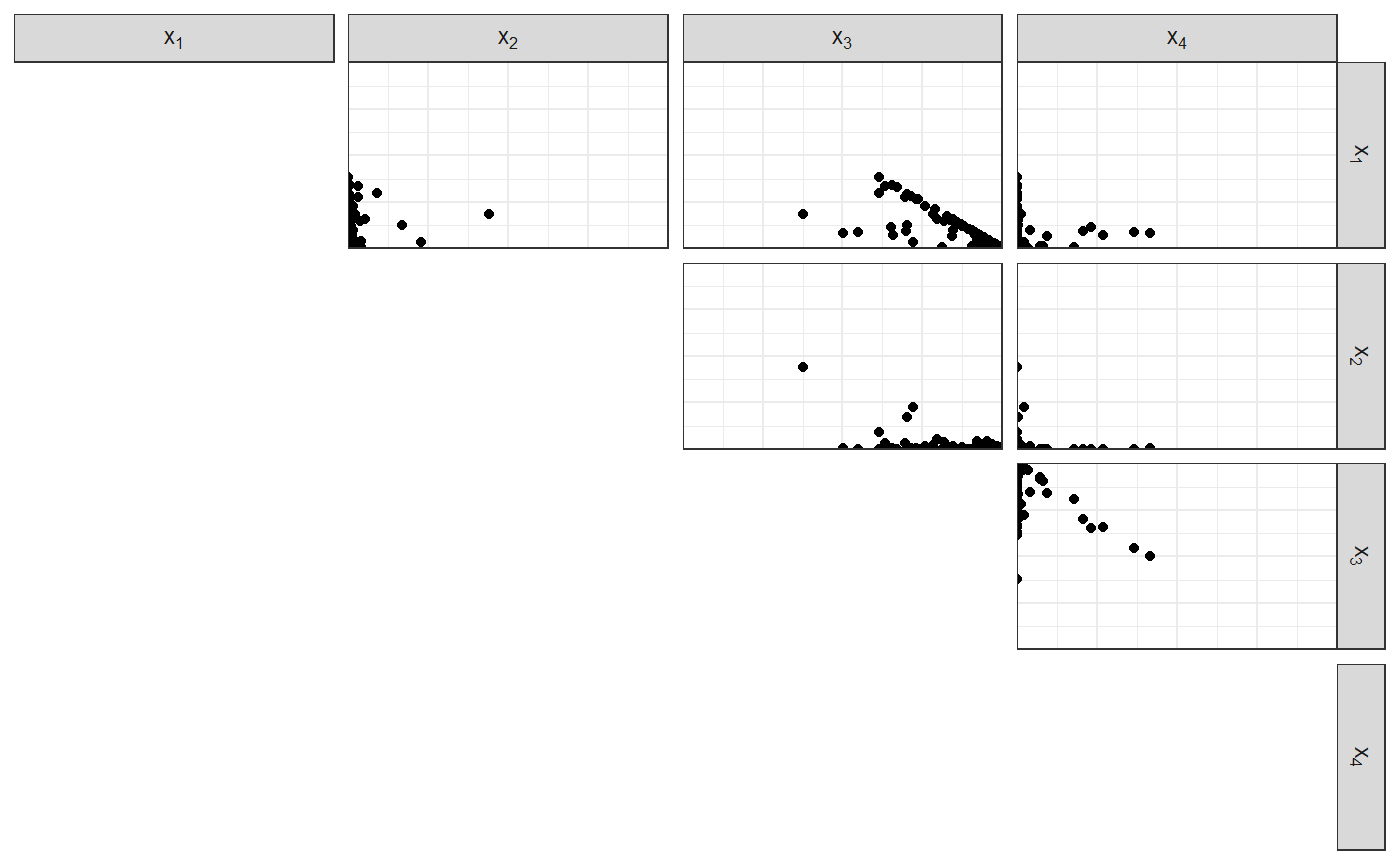
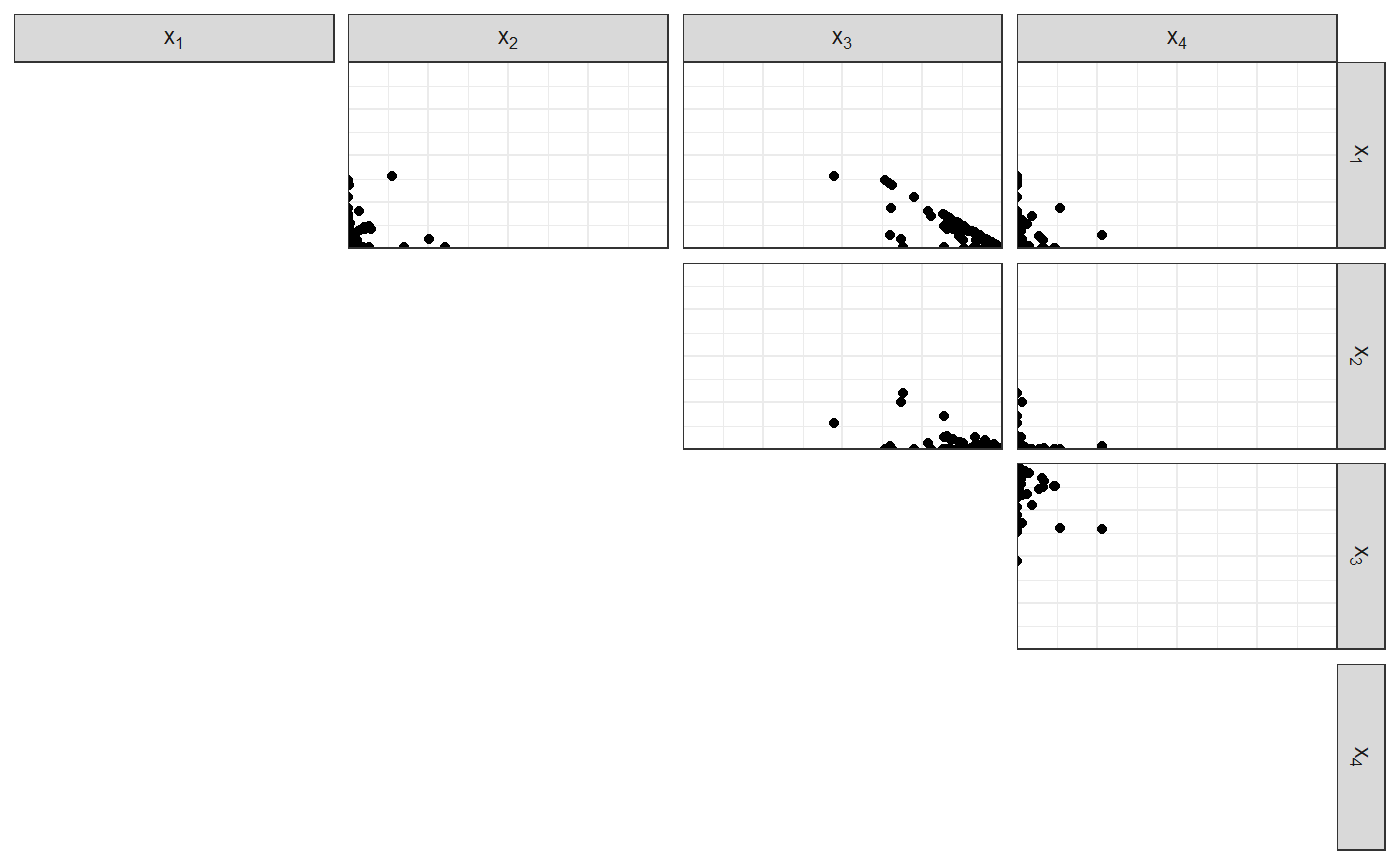
Increment version number

diff --git a/docs/articles/dirichletdirichlet-study.html b/docs/articles/dirichletdirichlet-study.html
@@ -30,7 +30,7 @@
       </button>
       <span class="navbar-brand">
         <a class="navbar-link" href="../index.html">rsamplestudy</a>
-        <span class="version label label-default" data-toggle="tooltip" data-placement="bottom" title="Released version">0.2.0</span>
+        <span class="version label label-default" data-toggle="tooltip" data-placement="bottom" title="Released version">0.2.1</span>
       </span>
     </div>
 
@@ -143,24 +143,24 @@ This vignette describes the Dirichlet-Dirichlet model.</p>
 <p>Notice that the hyperparameter is sampled, too (but it can be fixed).</p>
 <div class="sourceCode" id="cb2"><pre class="sourceCode r"><code class="sourceCode r"><a class="sourceLine" id="cb2-1" title="1"><span class="kw"><a href="https://www.rdocumentation.org/packages/utils/topics/head">head</a></span>(list_pop<span class="op">$</span>df_pop)</a>
 <a class="sourceLine" id="cb2-2" title="2"><span class="co">#&gt; # A tibble: 6 x 5</span></a>
-<a class="sourceLine" id="cb2-3" title="3"><span class="co">#&gt;   source   `x[1]`   `x[2]` `x[3]` `x[4]`</span></a>
-<a class="sourceLine" id="cb2-4" title="4"><span class="co">#&gt;    &lt;int&gt;    &lt;dbl&gt;    &lt;dbl&gt;  &lt;dbl&gt;  &lt;dbl&gt;</span></a>
-<a class="sourceLine" id="cb2-5" title="5"><span class="co">#&gt; 1      1 1.56e-11 0.101     0.899      0</span></a>
-<a class="sourceLine" id="cb2-6" title="6"><span class="co">#&gt; 2      1 1.23e- 5 0.273     0.727      0</span></a>
-<a class="sourceLine" id="cb2-7" title="7"><span class="co">#&gt; 3      1 6.34e- 7 0.0700    0.930      0</span></a>
-<a class="sourceLine" id="cb2-8" title="8"><span class="co">#&gt; 4      1 1.59e- 4 0.000150  1.000      0</span></a>
-<a class="sourceLine" id="cb2-9" title="9"><span class="co">#&gt; 5      1 8.93e- 1 0.000673  0.106      0</span></a>
-<a class="sourceLine" id="cb2-10" title="10"><span class="co">#&gt; 6      1 3.75e- 5 0.612     0.388      0</span></a>
+<a class="sourceLine" id="cb2-3" title="3"><span class="co">#&gt;   source `x[1]` `x[2]` `x[3]`   `x[4]`</span></a>
+<a class="sourceLine" id="cb2-4" title="4"><span class="co">#&gt;    &lt;int&gt;  &lt;dbl&gt;  &lt;dbl&gt;  &lt;dbl&gt;    &lt;dbl&gt;</span></a>
+<a class="sourceLine" id="cb2-5" title="5"><span class="co">#&gt; 1      1 0.102       0  0.898 1.03e-86</span></a>
+<a class="sourceLine" id="cb2-6" title="6"><span class="co">#&gt; 2      1 0.0244      0  0.976 1.73e-26</span></a>
+<a class="sourceLine" id="cb2-7" title="7"><span class="co">#&gt; 3      1 0.897       0  0.103 1.05e-18</span></a>
+<a class="sourceLine" id="cb2-8" title="8"><span class="co">#&gt; 4      1 0.421       0  0.579 1.14e-50</span></a>
+<a class="sourceLine" id="cb2-9" title="9"><span class="co">#&gt; 5      1 0.899       0  0.101 1.79e-21</span></a>
+<a class="sourceLine" id="cb2-10" title="10"><span class="co">#&gt; 6      1 0.440       0  0.560 7.73e-20</span></a>
 <a class="sourceLine" id="cb2-11" title="11"><span class="kw"><a href="https://www.rdocumentation.org/packages/utils/topics/head">head</a></span>(list_pop<span class="op">$</span>df_sources)</a>
 <a class="sourceLine" id="cb2-12" title="12"><span class="co">#&gt; # A tibble: 6 x 5</span></a>
 <a class="sourceLine" id="cb2-13" title="13"><span class="co">#&gt;   source `theta[1]` `theta[2]` `theta[3]`  `theta[4]`</span></a>
 <a class="sourceLine" id="cb2-14" title="14"><span class="co">#&gt;    &lt;int&gt;      &lt;dbl&gt;      &lt;dbl&gt;      &lt;dbl&gt;       &lt;dbl&gt;</span></a>
-<a class="sourceLine" id="cb2-15" title="15"><span class="co">#&gt; 1      1  0.0945       0.213      0.693   0.000165   </span></a>
-<a class="sourceLine" id="cb2-16" title="16"><span class="co">#&gt; 2      2  0.0242       0.00908    0.967   0.000000843</span></a>
-<a class="sourceLine" id="cb2-17" title="17"><span class="co">#&gt; 3      3  0.0000997    0.595      0.386   0.0188     </span></a>
-<a class="sourceLine" id="cb2-18" title="18"><span class="co">#&gt; 4      4  0.00448      0.172      0.824   0.00000151 </span></a>
-<a class="sourceLine" id="cb2-19" title="19"><span class="co">#&gt; 5      5  0.00946      0.988      0.00260 0.00000246 </span></a>
-<a class="sourceLine" id="cb2-20" title="20"><span class="co">#&gt; 6      6  0.0716       0.0278     0.877   0.0232</span></a></code></pre></div>
+<a class="sourceLine" id="cb2-15" title="15"><span class="co">#&gt; 1      1  0.621       7.74e-11      0.367 0.0116     </span></a>
+<a class="sourceLine" id="cb2-16" title="16"><span class="co">#&gt; 2      2  0.0174      3.40e- 6      0.981 0.00118    </span></a>
+<a class="sourceLine" id="cb2-17" title="17"><span class="co">#&gt; 3      3  0.0000446   4.40e-12      1.000 0.000000687</span></a>
+<a class="sourceLine" id="cb2-18" title="18"><span class="co">#&gt; 4      4  0.158       1.36e-16      0.842 0.00000278 </span></a>
+<a class="sourceLine" id="cb2-19" title="19"><span class="co">#&gt; 5      5  0.326       5.15e- 1      0.158 0.000863   </span></a>
+<a class="sourceLine" id="cb2-20" title="20"><span class="co">#&gt; 6      6  0.266       2.38e- 5      0.522 0.212</span></a></code></pre></div>
 </div>
 <div id="hyperparameters" class="section level2">
 <h2 class="hasAnchor">
@@ -187,33 +187,33 @@ This is generically done using <code>make_dataset_splits</code>:</p>
 <a class="sourceLine" id="cb4-8" title="8"><span class="co">#&gt; [5] "df_questioned"  "df_background"</span></a></code></pre></div>
 <div class="sourceCode" id="cb5"><pre class="sourceCode r"><code class="sourceCode r"><a class="sourceLine" id="cb5-1" title="1"><span class="kw"><a href="https://www.rdocumentation.org/packages/utils/topics/head">head</a></span>(list_samples<span class="op">$</span>df_reference)</a>
 <a class="sourceLine" id="cb5-2" title="2"><span class="co">#&gt; # A tibble: 6 x 5</span></a>
-<a class="sourceLine" id="cb5-3" title="3"><span class="co">#&gt;   source  `x[1]`    `x[2]` `x[3]`    `x[4]`</span></a>
-<a class="sourceLine" id="cb5-4" title="4"><span class="co">#&gt;    &lt;int&gt;   &lt;dbl&gt;     &lt;dbl&gt;  &lt;dbl&gt;     &lt;dbl&gt;</span></a>
-<a class="sourceLine" id="cb5-5" title="5"><span class="co">#&gt; 1     13 0.149   9.13e-  5  0.825 0.0263   </span></a>
-<a class="sourceLine" id="cb5-6" title="6"><span class="co">#&gt; 2     13 0.360   4.50e-201  0.585 0.0542   </span></a>
-<a class="sourceLine" id="cb5-7" title="7"><span class="co">#&gt; 3     13 0.271   6.14e- 11  0.729 0.000356 </span></a>
-<a class="sourceLine" id="cb5-8" title="8"><span class="co">#&gt; 4     13 0.00334 3.55e- 79  0.652 0.345    </span></a>
-<a class="sourceLine" id="cb5-9" title="9"><span class="co">#&gt; 5     13 0.263   7.32e-141  0.732 0.00489  </span></a>
-<a class="sourceLine" id="cb5-10" title="10"><span class="co">#&gt; 6     13 0.116   5.35e- 41  0.884 0.0000553</span></a>
+<a class="sourceLine" id="cb5-3" title="3"><span class="co">#&gt;   source    `x[1]` `x[2]` `x[3]` `x[4]`</span></a>
+<a class="sourceLine" id="cb5-4" title="4"><span class="co">#&gt;    &lt;int&gt;     &lt;dbl&gt;  &lt;dbl&gt;  &lt;dbl&gt;  &lt;dbl&gt;</span></a>
+<a class="sourceLine" id="cb5-5" title="5"><span class="co">#&gt; 1     12 3.09e-140      0      1      0</span></a>
+<a class="sourceLine" id="cb5-6" title="6"><span class="co">#&gt; 2     12 1.19e- 17      0      1      0</span></a>
+<a class="sourceLine" id="cb5-7" title="7"><span class="co">#&gt; 3     12 8.48e- 17      0      1      0</span></a>
+<a class="sourceLine" id="cb5-8" title="8"><span class="co">#&gt; 4     12 1.06e- 21      0      1      0</span></a>
+<a class="sourceLine" id="cb5-9" title="9"><span class="co">#&gt; 5     12 1.17e-114      0      1      0</span></a>
+<a class="sourceLine" id="cb5-10" title="10"><span class="co">#&gt; 6     12 2.56e- 77      0      1      0</span></a>
 <a class="sourceLine" id="cb5-11" title="11"><span class="kw"><a href="https://www.rdocumentation.org/packages/utils/topics/head">head</a></span>(list_samples<span class="op">$</span>df_questioned)</a>
 <a class="sourceLine" id="cb5-12" title="12"><span class="co">#&gt; # A tibble: 5 x 5</span></a>
-<a class="sourceLine" id="cb5-13" title="13"><span class="co">#&gt;   source   `x[1]`    `x[2]`    `x[3]` `x[4]`</span></a>
-<a class="sourceLine" id="cb5-14" title="14"><span class="co">#&gt;    &lt;int&gt;    &lt;dbl&gt;     &lt;dbl&gt;     &lt;dbl&gt;  &lt;dbl&gt;</span></a>
-<a class="sourceLine" id="cb5-15" title="15"><span class="co">#&gt; 1      4 1.13e-74  4.13e- 6 10.00e- 1  0    </span></a>
-<a class="sourceLine" id="cb5-16" title="16"><span class="co">#&gt; 2      5 5.10e- 8 10.00e- 1  2.52e-38  0    </span></a>
-<a class="sourceLine" id="cb5-17" title="17"><span class="co">#&gt; 3     14 1.02e- 6  3.37e- 2  9.66e- 1  0    </span></a>
-<a class="sourceLine" id="cb5-18" title="18"><span class="co">#&gt; 4     15 0.        3.22e-71  8.07e- 1  0.193</span></a>
-<a class="sourceLine" id="cb5-19" title="19"><span class="co">#&gt; 5     19 9.99e- 1  9.49e-44  8.86e- 4  0</span></a>
+<a class="sourceLine" id="cb5-13" title="13"><span class="co">#&gt;   source    `x[1]` `x[2]` `x[3]`    `x[4]`</span></a>
+<a class="sourceLine" id="cb5-14" title="14"><span class="co">#&gt;    &lt;int&gt;     &lt;dbl&gt;  &lt;dbl&gt;  &lt;dbl&gt;     &lt;dbl&gt;</span></a>
+<a class="sourceLine" id="cb5-15" title="15"><span class="co">#&gt; 1      7 0.0000533      0  0.663 3.37e-  1</span></a>
+<a class="sourceLine" id="cb5-16" title="16"><span class="co">#&gt; 2      7 0.0132         0  0.948 3.93e-  2</span></a>
+<a class="sourceLine" id="cb5-17" title="17"><span class="co">#&gt; 3      7 0.00809        0  0.545 4.47e-  1</span></a>
+<a class="sourceLine" id="cb5-18" title="18"><span class="co">#&gt; 4     14 0              0  0.991 9.36e-  3</span></a>
+<a class="sourceLine" id="cb5-19" title="19"><span class="co">#&gt; 5     19 0              0  1     3.45e-306</span></a>
 <a class="sourceLine" id="cb5-20" title="20"><span class="kw"><a href="https://www.rdocumentation.org/packages/utils/topics/head">head</a></span>(list_samples<span class="op">$</span>df_background)</a>
 <a class="sourceLine" id="cb5-21" title="21"><span class="co">#&gt; # A tibble: 6 x 5</span></a>
-<a class="sourceLine" id="cb5-22" title="22"><span class="co">#&gt;   source   `x[1]`   `x[2]` `x[3]` `x[4]`</span></a>
-<a class="sourceLine" id="cb5-23" title="23"><span class="co">#&gt;    &lt;int&gt;    &lt;dbl&gt;    &lt;dbl&gt;  &lt;dbl&gt;  &lt;dbl&gt;</span></a>
-<a class="sourceLine" id="cb5-24" title="24"><span class="co">#&gt; 1      1 1.56e-11 0.101     0.899      0</span></a>
-<a class="sourceLine" id="cb5-25" title="25"><span class="co">#&gt; 2      1 1.23e- 5 0.273     0.727      0</span></a>
-<a class="sourceLine" id="cb5-26" title="26"><span class="co">#&gt; 3      1 6.34e- 7 0.0700    0.930      0</span></a>
-<a class="sourceLine" id="cb5-27" title="27"><span class="co">#&gt; 4      1 1.59e- 4 0.000150  1.000      0</span></a>
-<a class="sourceLine" id="cb5-28" title="28"><span class="co">#&gt; 5      1 8.93e- 1 0.000673  0.106      0</span></a>
-<a class="sourceLine" id="cb5-29" title="29"><span class="co">#&gt; 6      1 3.75e- 5 0.612     0.388      0</span></a></code></pre></div>
+<a class="sourceLine" id="cb5-22" title="22"><span class="co">#&gt;   source `x[1]` `x[2]` `x[3]`   `x[4]`</span></a>
+<a class="sourceLine" id="cb5-23" title="23"><span class="co">#&gt;    &lt;int&gt;  &lt;dbl&gt;  &lt;dbl&gt;  &lt;dbl&gt;    &lt;dbl&gt;</span></a>
+<a class="sourceLine" id="cb5-24" title="24"><span class="co">#&gt; 1      1 0.102       0  0.898 1.03e-86</span></a>
+<a class="sourceLine" id="cb5-25" title="25"><span class="co">#&gt; 2      1 0.0244      0  0.976 1.73e-26</span></a>
+<a class="sourceLine" id="cb5-26" title="26"><span class="co">#&gt; 3      1 0.897       0  0.103 1.05e-18</span></a>
+<a class="sourceLine" id="cb5-27" title="27"><span class="co">#&gt; 4      1 0.421       0  0.579 1.14e-50</span></a>
+<a class="sourceLine" id="cb5-28" title="28"><span class="co">#&gt; 5      1 0.899       0  0.101 1.79e-21</span></a>
+<a class="sourceLine" id="cb5-29" title="29"><span class="co">#&gt; 6      1 0.440       0  0.560 7.73e-20</span></a></code></pre></div>
 <div id="source-parameters" class="section level3">
 <h3 class="hasAnchor">
 <a href="#source-parameters" class="anchor"></a>Source parameters</h3>

diff --git a/docs/articles/dirichlet-distribution.html b/docs/articles/dirichlet-distribution.html
@@ -30,7 +30,7 @@
       </button>
       <span class="navbar-brand">
         <a class="navbar-link" href="../index.html">rsamplestudy</a>
-        <span class="version label label-default" data-toggle="tooltip" data-placement="bottom" title="Released version">0.2.0</span>
+        <span class="version label label-default" data-toggle="tooltip" data-placement="bottom" title="Released version">0.2.1</span>
       </span>
     </div>
 
@@ -151,14 +151,14 @@ In other words, <span class="math inline">\(\boldsymbol{X} \in \text{Simplex}{(p
 <div class="sourceCode" id="cb2"><pre class="sourceCode r"><code class="sourceCode r"><a class="sourceLine" id="cb2-1" title="1">df_diri &lt;-<span class="st"> </span><span class="kw"><a href="../reference/fun_rdirichlet.html">fun_rdirichlet</a></span>(n, alpha)</a>
 <a class="sourceLine" id="cb2-2" title="2"><span class="kw"><a href="https://www.rdocumentation.org/packages/utils/topics/head">head</a></span>(df_diri)</a>
 <a class="sourceLine" id="cb2-3" title="3"><span class="co">#&gt; # A tibble: 6 x 4</span></a>
-<a class="sourceLine" id="cb2-4" title="4"><span class="co">#&gt;     `x[1]`   `x[2]` `x[3]`   `x[4]`</span></a>
-<a class="sourceLine" id="cb2-5" title="5"><span class="co">#&gt;      &lt;dbl&gt;    &lt;dbl&gt;  &lt;dbl&gt;    &lt;dbl&gt;</span></a>
-<a class="sourceLine" id="cb2-6" title="6"><span class="co">#&gt; 1 0.117    7.54e-14  0.652 2.31e- 1</span></a>
-<a class="sourceLine" id="cb2-7" title="7"><span class="co">#&gt; 2 0.00419  7.90e- 4  0.995 1.99e-23</span></a>
-<a class="sourceLine" id="cb2-8" title="8"><span class="co">#&gt; 3 0.000347 4.85e- 8  0.975 2.42e- 2</span></a>
-<a class="sourceLine" id="cb2-9" title="9"><span class="co">#&gt; 4 0.00716  4.98e-10  0.993 2.23e- 7</span></a>
-<a class="sourceLine" id="cb2-10" title="10"><span class="co">#&gt; 5 0.0800   3.57e- 3  0.501 4.15e- 1</span></a>
-<a class="sourceLine" id="cb2-11" title="11"><span class="co">#&gt; 6 0.185    1.94e- 2  0.783 1.29e- 2</span></a></code></pre></div>
+<a class="sourceLine" id="cb2-4" title="4"><span class="co">#&gt;    `x[1]`   `x[2]` `x[3]`   `x[4]`</span></a>
+<a class="sourceLine" id="cb2-5" title="5"><span class="co">#&gt;     &lt;dbl&gt;    &lt;dbl&gt;  &lt;dbl&gt;    &lt;dbl&gt;</span></a>
+<a class="sourceLine" id="cb2-6" title="6"><span class="co">#&gt; 1 0.00885 1.03e-18  0.991 4.91e- 4</span></a>
+<a class="sourceLine" id="cb2-7" title="7"><span class="co">#&gt; 2 0.0109  2.24e- 2  0.967 3.43e-11</span></a>
+<a class="sourceLine" id="cb2-8" title="8"><span class="co">#&gt; 3 0.0679  4.11e-13  0.932 1.92e- 4</span></a>
+<a class="sourceLine" id="cb2-9" title="9"><span class="co">#&gt; 4 0.169   5.97e-17  0.831 1.07e- 8</span></a>
+<a class="sourceLine" id="cb2-10" title="10"><span class="co">#&gt; 5 0.0918  5.13e- 5  0.906 2.54e- 3</span></a>
+<a class="sourceLine" id="cb2-11" title="11"><span class="co">#&gt; 6 0.0167  5.15e- 4  0.983 3.78e- 7</span></a></code></pre></div>
 <pre><code>#&gt; Loading required namespace: GGally</code></pre>
 <p><img src="dirichlet-distribution_files/figure-html/sym-sens-plot-comp-1.png" width="700"></p>
 <div id="uniform-sampling" class="section level3">
@@ -174,12 +174,12 @@ In other words, <span class="math inline">\(\boldsymbol{X} \in \text{Simplex}{(p
 <a class="sourceLine" id="cb5-3" title="3"><span class="co">#&gt; # A tibble: 6 x 4</span></a>
 <a class="sourceLine" id="cb5-4" title="4"><span class="co">#&gt;   `x[1]` `x[2]` `x[3]` `x[4]`</span></a>
 <a class="sourceLine" id="cb5-5" title="5"><span class="co">#&gt;    &lt;dbl&gt;  &lt;dbl&gt;  &lt;dbl&gt;  &lt;dbl&gt;</span></a>
-<a class="sourceLine" id="cb5-6" title="6"><span class="co">#&gt; 1 0.0737 0.110   0.525 0.291 </span></a>
-<a class="sourceLine" id="cb5-7" title="7"><span class="co">#&gt; 2 0.289  0.122   0.438 0.151 </span></a>
-<a class="sourceLine" id="cb5-8" title="8"><span class="co">#&gt; 3 0.251  0.305   0.252 0.192 </span></a>
-<a class="sourceLine" id="cb5-9" title="9"><span class="co">#&gt; 4 0.113  0.220   0.612 0.0548</span></a>
-<a class="sourceLine" id="cb5-10" title="10"><span class="co">#&gt; 5 0.614  0.0461  0.320 0.0195</span></a>
-<a class="sourceLine" id="cb5-11" title="11"><span class="co">#&gt; 6 0.403  0.104   0.444 0.0494</span></a></code></pre></div>
+<a class="sourceLine" id="cb5-6" title="6"><span class="co">#&gt; 1 0.476  0.140   0.210 0.173 </span></a>
+<a class="sourceLine" id="cb5-7" title="7"><span class="co">#&gt; 2 0.0145 0.415   0.352 0.218 </span></a>
+<a class="sourceLine" id="cb5-8" title="8"><span class="co">#&gt; 3 0.264  0.228   0.431 0.0773</span></a>
+<a class="sourceLine" id="cb5-9" title="9"><span class="co">#&gt; 4 0.162  0.241   0.554 0.0422</span></a>
+<a class="sourceLine" id="cb5-10" title="10"><span class="co">#&gt; 5 0.366  0.113   0.321 0.200 </span></a>
+<a class="sourceLine" id="cb5-11" title="11"><span class="co">#&gt; 6 0.420  0.0159  0.328 0.236</span></a></code></pre></div>
 <div class="sourceCode" id="cb6"><pre class="sourceCode r"><code class="sourceCode r"><a class="sourceLine" id="cb6-1" title="1"><span class="kw">scatter_matrix_simplex</span>(df_diri)</a></code></pre></div>
 <p><img src="dirichlet-distribution_files/figure-html/unnamed-chunk-5-1.png" width="700"></p>
 </div>
@@ -196,12 +196,12 @@ In other words, <span class="math inline">\(\boldsymbol{X} \in \text{Simplex}{(p
 <a class="sourceLine" id="cb8-3" title="3"><span class="co">#&gt; # A tibble: 6 x 4</span></a>
 <a class="sourceLine" id="cb8-4" title="4"><span class="co">#&gt;   `x[1]` `x[2]` `x[3]` `x[4]`</span></a>
 <a class="sourceLine" id="cb8-5" title="5"><span class="co">#&gt;    &lt;dbl&gt;  &lt;dbl&gt;  &lt;dbl&gt;  &lt;dbl&gt;</span></a>
-<a class="sourceLine" id="cb8-6" title="6"><span class="co">#&gt; 1  0.319  0.244  0.205  0.232</span></a>
-<a class="sourceLine" id="cb8-7" title="7"><span class="co">#&gt; 2  0.251  0.238  0.258  0.253</span></a>
-<a class="sourceLine" id="cb8-8" title="8"><span class="co">#&gt; 3  0.256  0.263  0.234  0.247</span></a>
-<a class="sourceLine" id="cb8-9" title="9"><span class="co">#&gt; 4  0.195  0.305  0.235  0.264</span></a>
-<a class="sourceLine" id="cb8-10" title="10"><span class="co">#&gt; 5  0.194  0.302  0.271  0.234</span></a>
-<a class="sourceLine" id="cb8-11" title="11"><span class="co">#&gt; 6  0.240  0.264  0.229  0.267</span></a></code></pre></div>
+<a class="sourceLine" id="cb8-6" title="6"><span class="co">#&gt; 1  0.261  0.242  0.249  0.248</span></a>
+<a class="sourceLine" id="cb8-7" title="7"><span class="co">#&gt; 2  0.277  0.227  0.225  0.271</span></a>
+<a class="sourceLine" id="cb8-8" title="8"><span class="co">#&gt; 3  0.261  0.182  0.317  0.239</span></a>
+<a class="sourceLine" id="cb8-9" title="9"><span class="co">#&gt; 4  0.210  0.230  0.334  0.226</span></a>
+<a class="sourceLine" id="cb8-10" title="10"><span class="co">#&gt; 5  0.258  0.252  0.250  0.240</span></a>
+<a class="sourceLine" id="cb8-11" title="11"><span class="co">#&gt; 6  0.200  0.261  0.319  0.219</span></a></code></pre></div>
 <div class="sourceCode" id="cb9"><pre class="sourceCode r"><code class="sourceCode r"><a class="sourceLine" id="cb9-1" title="1"><span class="kw">scatter_matrix_simplex</span>(df_diri)</a></code></pre></div>
 <p><img src="dirichlet-distribution_files/figure-html/unnamed-chunk-8-1.png" width="700"></p>
 </div>
@@ -216,26 +216,15 @@ In other words, <span class="math inline">\(\boldsymbol{X} \in \text{Simplex}{(p
 <div class="sourceCode" id="cb11"><pre class="sourceCode r"><code class="sourceCode r"><a class="sourceLine" id="cb11-1" title="1">df_diri &lt;-<span class="st"> </span><span class="kw"><a href="../reference/fun_rdirichlet.html">fun_rdirichlet</a></span>(n, alpha)</a>
 <a class="sourceLine" id="cb11-2" title="2"><span class="kw"><a href="https://www.rdocumentation.org/packages/utils/topics/head">head</a></span>(df_diri)</a>
 <a class="sourceLine" id="cb11-3" title="3"><span class="co">#&gt; # A tibble: 6 x 4</span></a>
-<a class="sourceLine" id="cb11-4" title="4"><span class="co">#&gt;      `x[1]`   `x[2]`     `x[3]`    `x[4]`</span></a>
-<a class="sourceLine" id="cb11-5" title="5"><span class="co">#&gt;       &lt;dbl&gt;    &lt;dbl&gt;      &lt;dbl&gt;     &lt;dbl&gt;</span></a>
-<a class="sourceLine" id="cb11-6" title="6"><span class="co">#&gt; 1 0.        0.        1.00e+  0 0.       </span></a>
-<a class="sourceLine" id="cb11-7" title="7"><span class="co">#&gt; 2 7.08e-105 2.52e-74  1.00e+  0 7.01e- 22</span></a>
-<a class="sourceLine" id="cb11-8" title="8"><span class="co">#&gt; 3 3.60e- 28 1.51e-42  0.        1.00e+  0</span></a>
-<a class="sourceLine" id="cb11-9" title="9"><span class="co">#&gt; 4 1.00e+  0 2.51e-80  1.14e-170 1.62e-208</span></a>
-<a class="sourceLine" id="cb11-10" title="10"><span class="co">#&gt; 5 0.        0.       10.00e-  1 1.47e- 13</span></a>
-<a class="sourceLine" id="cb11-11" title="11"><span class="co">#&gt; 6 1.75e-106 1.00e+ 0  1.02e- 32 0.</span></a></code></pre></div>
-<div class="sourceCode" id="cb12"><pre class="sourceCode r"><code class="sourceCode r"><a class="sourceLine" id="cb12-1" title="1"><span class="kw">scatter_matrix_simplex</span>(df_diri)</a>
-<a class="sourceLine" id="cb12-2" title="2"><span class="co">#&gt; Warning: Removed 1 rows containing missing values (geom_point).</span></a>
-<a class="sourceLine" id="cb12-3" title="3"></a>
-<a class="sourceLine" id="cb12-4" title="4"><span class="co">#&gt; Warning: Removed 1 rows containing missing values (geom_point).</span></a>
-<a class="sourceLine" id="cb12-5" title="5"></a>
-<a class="sourceLine" id="cb12-6" title="6"><span class="co">#&gt; Warning: Removed 1 rows containing missing values (geom_point).</span></a>
-<a class="sourceLine" id="cb12-7" title="7"></a>
-<a class="sourceLine" id="cb12-8" title="8"><span class="co">#&gt; Warning: Removed 1 rows containing missing values (geom_point).</span></a>
-<a class="sourceLine" id="cb12-9" title="9"></a>
-<a class="sourceLine" id="cb12-10" title="10"><span class="co">#&gt; Warning: Removed 1 rows containing missing values (geom_point).</span></a>
-<a class="sourceLine" id="cb12-11" title="11"></a>
-<a class="sourceLine" id="cb12-12" title="12"><span class="co">#&gt; Warning: Removed 1 rows containing missing values (geom_point).</span></a></code></pre></div>
+<a class="sourceLine" id="cb11-4" title="4"><span class="co">#&gt;      `x[1]`     `x[2]`    `x[3]`    `x[4]`</span></a>
+<a class="sourceLine" id="cb11-5" title="5"><span class="co">#&gt;       &lt;dbl&gt;      &lt;dbl&gt;     &lt;dbl&gt;     &lt;dbl&gt;</span></a>
+<a class="sourceLine" id="cb11-6" title="6"><span class="co">#&gt; 1  8.34e-50  3.34e- 66 1.88e-180 1.00e+  0</span></a>
+<a class="sourceLine" id="cb11-7" title="7"><span class="co">#&gt; 2 10.00e- 1  1.74e-127 0.        1.08e-  9</span></a>
+<a class="sourceLine" id="cb11-8" title="8"><span class="co">#&gt; 3  1.00e+ 0  1.09e- 23 2.50e-157 1.51e-309</span></a>
+<a class="sourceLine" id="cb11-9" title="9"><span class="co">#&gt; 4  3.85e-33 10.00e-  1 6.55e- 16 1.31e- 34</span></a>
+<a class="sourceLine" id="cb11-10" title="10"><span class="co">#&gt; 5 10.00e- 1  1.87e-203 4.97e-  4 0.       </span></a>
+<a class="sourceLine" id="cb11-11" title="11"><span class="co">#&gt; 6  4.67e-37  1.70e- 69 2.22e- 81 1.00e+  0</span></a></code></pre></div>
+<div class="sourceCode" id="cb12"><pre class="sourceCode r"><code class="sourceCode r"><a class="sourceLine" id="cb12-1" title="1"><span class="kw">scatter_matrix_simplex</span>(df_diri)</a></code></pre></div>
 <p><img src="dirichlet-distribution_files/figure-html/unnamed-chunk-11-1.png" width="700"></p>
 </div>
 </div>

diff --git a/docs/news/index.html b/docs/news/index.html
@@ -60,7 +60,7 @@
       </button>
       <span class="navbar-brand">
         <a class="navbar-link" href="../index.html">rsamplestudy</a>
-        <span class="version label label-default" data-toggle="tooltip" data-placement="bottom" title="Released version">0.2.0</span>
+        <span class="version label label-default" data-toggle="tooltip" data-placement="bottom" title="Released version">0.2.1</span>
       </span>
     </div>
 
@@ -121,6 +121,13 @@
       <small>Source: <a href='https://github.com/lgaborini/rsamplestudy/blob/master/NEWS.md'><code>NEWS.md</code></a></small>
     </div>
 
+    <div id="rsamplestudy-021" class="section level1">
+<h1 class="page-header">
+<a href="#rsamplestudy-021" class="anchor"></a>rsamplestudy 0.2.1</h1>
+<ul>
+<li>Fixed tests for <code>background = 'unobserved'</code>.</li>
+</ul>
+</div>
     <div id="rsamplestudy-020" class="section level1">
 <h1 class="page-header">
 <a href="#rsamplestudy-020" class="anchor"></a>rsamplestudy 0.2.0</h1>
@@ -135,6 +142,7 @@
     <div id="tocnav">
       <h2>Contents</h2>
       <ul class="nav nav-pills nav-stacked">
+        <li><a href="#rsamplestudy-021">0.2.1</a></li>
         <li><a href="#rsamplestudy-020">0.2.0</a></li>
       </ul>
     </div>

diff --git a/docs/reference/fun_rdirichlet_population.html b/docs/reference/fun_rdirichlet_population.html
@@ -64,7 +64,7 @@ Optionally pass the between-source alpha hyperparameter used to generate the sou
       </button>
       <span class="navbar-brand">
         <a class="navbar-link" href="../index.html">rsamplestudy</a>
-        <span class="version label label-default" data-toggle="tooltip" data-placement="bottom" title="Released version">0.2.0</span>
+        <span class="version label label-default" data-toggle="tooltip" data-placement="bottom" title="Released version">0.2.1</span>
       </span>
     </div>
 

diff --git a/docs/reference/fun_rnorm_population.html b/docs/reference/fun_rnorm_population.html
@@ -64,7 +64,7 @@ Optionally pass the between-source hyperparameters used to generate the source p
       </button>
       <span class="navbar-brand">
         <a class="navbar-link" href="../index.html">rsamplestudy</a>
-        <span class="version label label-default" data-toggle="tooltip" data-placement="bottom" title="Released version">0.2.0</span>
+        <span class="version label label-default" data-toggle="tooltip" data-placement="bottom" title="Released version">0.2.1</span>
       </span>
     </div>
 

diff --git a/docs/reference/make_dataset_splits.html b/docs/reference/make_dataset_splits.html
@@ -64,7 +64,7 @@ The split is done according by the item source." />
       </button>
       <span class="navbar-brand">
         <a class="navbar-link" href="../index.html">rsamplestudy</a>
-        <span class="version label label-default" data-toggle="tooltip" data-placement="bottom" title="Released version">0.2.0</span>
+        <span class="version label label-default" data-toggle="tooltip" data-placement="bottom" title="Released version">0.2.1</span>
       </span>
     </div>
 

diff --git a/docs/articles/index.html b/docs/articles/index.html
@@ -60,7 +60,7 @@
       </button>
       <span class="navbar-brand">
         <a class="navbar-link" href="../index.html">rsamplestudy</a>
-        <span class="version label label-default" data-toggle="tooltip" data-placement="bottom" title="Released version">0.2.0</span>
+        <span class="version label label-default" data-toggle="tooltip" data-placement="bottom" title="Released version">0.2.1</span>
       </span>
     </div>
 

diff --git a/docs/articles/sampling_study.html b/docs/articles/sampling_study.html
@@ -30,7 +30,7 @@
       </button>
       <span class="navbar-brand">
         <a class="navbar-link" href="../index.html">rsamplestudy</a>
-        <span class="version label label-default" data-toggle="tooltip" data-placement="bottom" title="Released version">0.2.0</span>
+        <span class="version label label-default" data-toggle="tooltip" data-placement="bottom" title="Released version">0.2.1</span>
       </span>
     </div>
 

diff --git a/docs/reference/fun_rdirichlet.html b/docs/reference/fun_rdirichlet.html
@@ -63,7 +63,7 @@
       </button>
       <span class="navbar-brand">
         <a class="navbar-link" href="../index.html">rsamplestudy</a>
-        <span class="version label label-default" data-toggle="tooltip" data-placement="bottom" title="Released version">0.2.0</span>
+        <span class="version label label-default" data-toggle="tooltip" data-placement="bottom" title="Released version">0.2.1</span>
       </span>
     </div>
 

diff --git a/docs/reference/fun_rdirichlet_hyperparameter.html b/docs/reference/fun_rdirichlet_hyperparameter.html
@@ -63,7 +63,7 @@
       </button>
       <span class="navbar-brand">
         <a class="navbar-link" href="../index.html">rsamplestudy</a>
-        <span class="version label label-default" data-toggle="tooltip" data-placement="bottom" title="Released version">0.2.0</span>
+        <span class="version label label-default" data-toggle="tooltip" data-placement="bottom" title="Released version">0.2.1</span>
       </span>
     </div>
 

diff --git a/docs/reference/fun_var_names.html b/docs/reference/fun_var_names.html
@@ -63,7 +63,7 @@
       </button>
       <span class="navbar-brand">
         <a class="navbar-link" href="../index.html">rsamplestudy</a>
-        <span class="version label label-default" data-toggle="tooltip" data-placement="bottom" title="Released version">0.2.0</span>
+        <span class="version label label-default" data-toggle="tooltip" data-placement="bottom" title="Released version">0.2.1</span>
       </span>
     </div>
 

diff --git a/docs/reference/index.html b/docs/reference/index.html
@@ -60,7 +60,7 @@
       </button>
       <span class="navbar-brand">
         <a class="navbar-link" href="../index.html">rsamplestudy</a>
-        <span class="version label label-default" data-toggle="tooltip" data-placement="bottom" title="Released version">0.2.0</span>
+        <span class="version label label-default" data-toggle="tooltip" data-placement="bottom" title="Released version">0.2.1</span>
       </span>
     </div>
 
